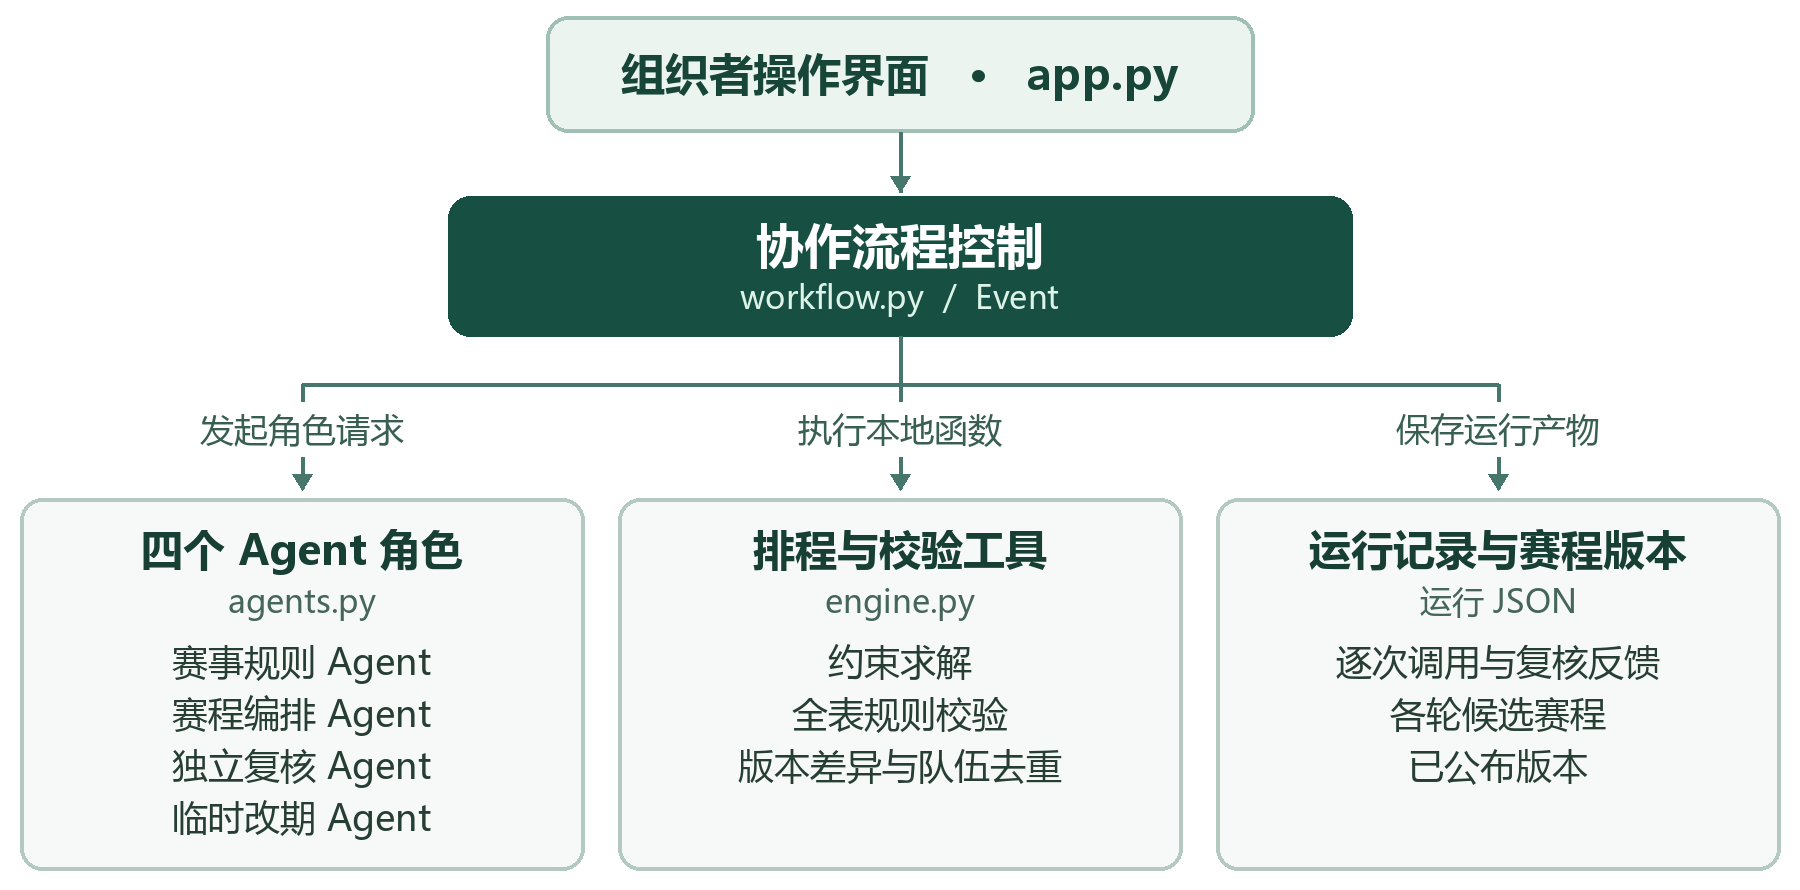
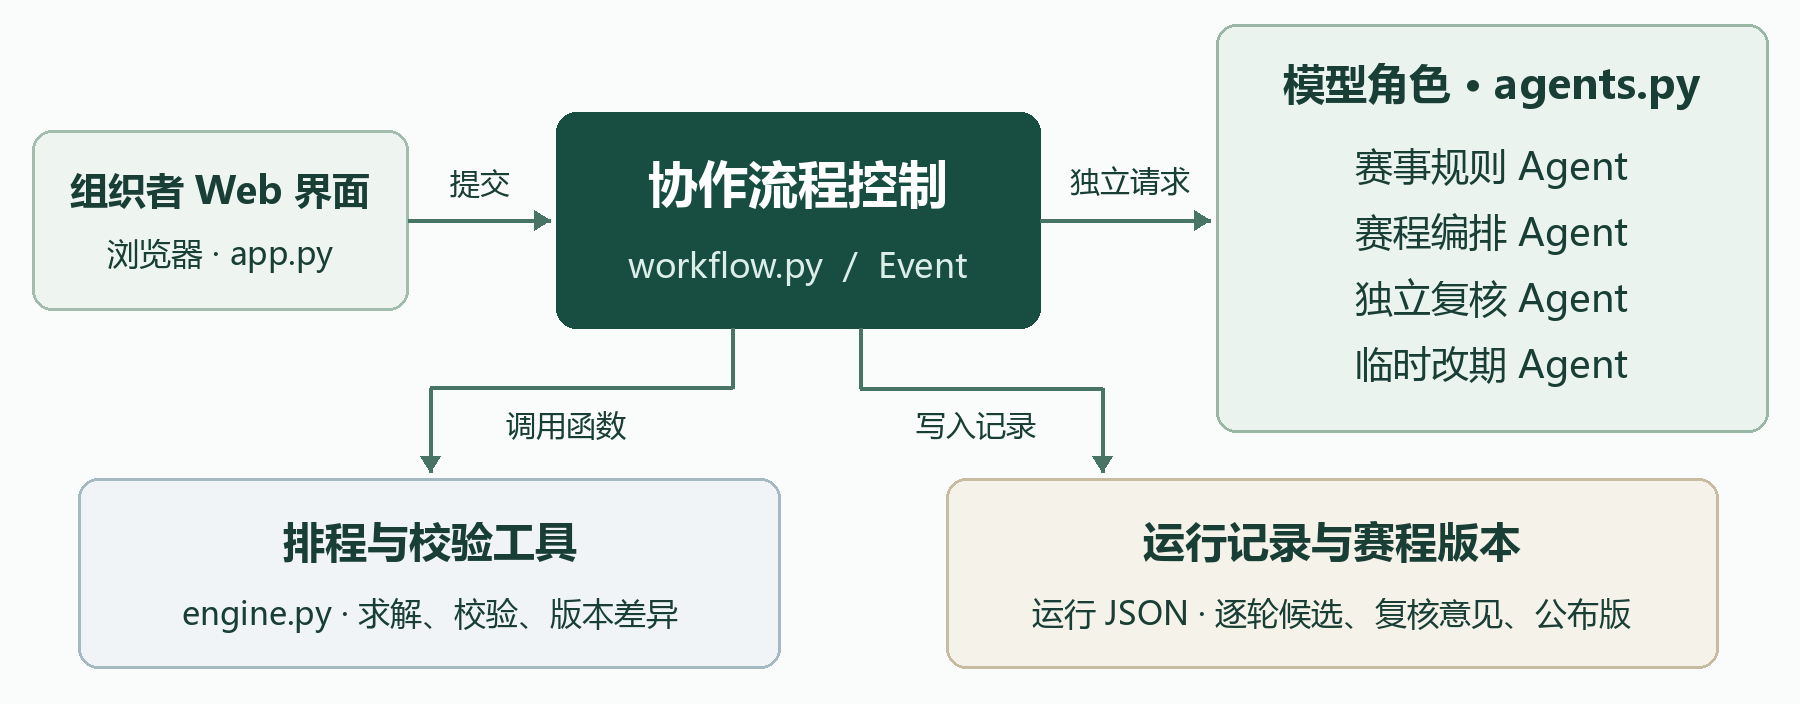
Document grading evidence, role simulations and Web architecture

diff --git a/report.md b/report.md
@@ -2,21 +2,21 @@
 
 结课方向三 · 多 Agent 协作系统（系统设计）｜榆园杯、队伍与通知均为虚构样例。本项目使用 Codex 辅助开发和整理材料。
 
-## 一、项目概述
+## 第一章 项目概述
 
 ### 1.1 方向选择理由
 
-同一份赛事通知里，“下午四点前无法到场”和“希望尽量晚一点”对排程有不同含义。理解这两句话需要读原文，判断两支队伍能否在同一时段开球还要计算场地、休息时间和共享人员。若负责解释通知的角色漏掉一句话，后面的计算即使正确，也可能排出无法执行的赛程。因此选择方向三，把规则解释、首版编排、独立复核和临时改期分给四个角色。
+榆园杯的组织者要把队长的话变成一张大家都能执行的表。“下午四点前无法到场”决定哪些时段可用，“希望尽量晚一点”只影响可行方案之间的选择。即使分清了这两句话，还要算出何时有空场、球队是否休息足够。公布前也得有人重读通知，检查是否漏掉了共用守门员这样的跨队限制。这三项工作需要不同的依据，因此选择方向三“多 Agent 协作系统”。
 
 ### 1.2 项目目标
 
-使用者是小型校园赛事的组织者。赛前，他提供对阵清单、场地条件和队长反馈，得到一张可以公布的单日赛程。公布后，遇到场地维修或球队请假，他需要尽量保留仍然可行的安排，拿到新版赛程、逐场变更原因和需要通知的队伍名单，才能有针对性地联系队长。
+小型校园赛事的组织者在浏览器中输入对阵清单、赛事通知和队长反馈，赛前得到经过核查、可以公布的单日赛程。公布后若场地停用或球队临时请假，他要知道哪几场必须调整、原来的安排能保留多少，以及新版中每场为何移动、需要联系哪些队伍。
 
 ### 1.3 核心功能
 
-组织者先录入通知，逐条核对规则及原文，澄清疑问后生成首版候选。复核通过后，他在页面上公布赛程。收到临时通知时，他可以并排查看新旧两版，点开移动的比赛检查时间、场地及依据。如果所有空档都不合适，页面保留原版，并把是否协调资源的决定交还给他。
+组织者先在 Web 端查看提取的规则和原文，确认后生成首版候选，复核通过即可公布。收到临时通知时，他在同一页面提交变更，对照新旧赛程查看移动场次、原因和去重后的队伍名单。实际联系由组织者负责。如果排不开，他仍能查看原版，并根据冲突说明决定是否协调场地。
 
-## 二、系统设计
+## 第二章 系统设计
 
 ### 2.1 系统架构图
 
@@ -24,22 +24,22 @@
 
 *图 1　系统组成与调用方向。箭头从发起操作的一方指向接收方。*
 
-首次编排时，界面把已确认的规则交给流程控制，控制器向角色发起请求，并在本机执行求解和校验。复核发现分歧后，控制器保存当轮候选，把问题及原文交回相应角色重新提交。通过复核的候选进入“可公布”状态，组织者点击公布才会追加正式版本。
+图 1 中，Web 端把操作交给流程控制器。首版使用已确认规则，改期还传入已公布版本与新通知；两条路径都由控制器请求角色并调用本地函数。规则释义有误退回规则角色，首版或改期候选有误分别退回编排或改期角色。复核通过后，组织者点击公布，控制器才把候选追加为正式版本。
 
 ### 2.2 模块说明
 
-| 模块 | 职责 | 主要输入与输出 | 实现文件 |
+| 模块或角色 | 职责 | 接收什么 | 交付什么 |
 |---|---|---|---|
-| 组织者界面 | 录入、确认、公布和回放 | 对阵、通知、操作 → 赛程对照与名单 | `app.py` |
-| 协作流程控制 | 分派角色、调用工具、决定状态 | 赛事状态与上一轮反馈 → 候选或退回意见 | `workflow.py` |
-| 赛事规则 Agent | 提取有依据的规则 | 通知与队长反馈 → 规则表、引句、待确认项 | `agents.py` |
-| 赛程编排 Agent | 组织首版编排 | 已确认规则与对阵 → 求解请求、规则编号 | `agents.py` |
-| 独立复核 Agent | 盲读原文，再核对候选 | 原文 → 独立清单；清单、候选与校验结果 → 复核意见 | `agents.py` |
-| 临时改期 Agent | 解释新增限制及影响 | 旧表与新通知 → 改期请求、直接受影响场次 | `agents.py` |
-| 排程与校验工具 | 执行搜索、检查约束、比较版本 | 规则、固定对阵与可选旧表 → 求解状态、违规项或差异 | `engine.py` |
-| 运行记录与版本 | 保存调用和每轮产物 | 角色回答、工具结果、发布操作 → 可回放的赛事记录 | `agents.py`、`workflow.py` |
+| Web 界面 | 录入、确认、公布与回放 | 对阵清单、通知、组织者操作 | 赛程对照、变更原因与名单 |
+| 协作流程控制 | 分派角色并决定能否公布 | 赛事状态、角色回答、校验结果 | 工具调用、定向反馈、候选状态 |
+| 赛事规则 Agent | 区分硬约束与软偏好 | 原始通知、队长反馈 | 带编号和原文引句的规则、待确认项 |
+| 赛程编排 Agent | 组织首版求解请求 | 确认规则、对阵、上一轮反馈 | 求解请求、规则编号及理由 |
+| 独立复核 Agent | 先盲读，再审查候选 | 原文；第二次请求另附候选与校验结果 | 独立规则清单、问题依据及退回对象 |
+| 临时改期 Agent | 解释新增限制并识别直接影响 | 已公布赛程、规则、新通知 | 改期请求、新限制与直接受影响场次 |
+| 排程与校验工具 | 执行搜索、验算约束、计算差异 | 对阵、规则及可选旧表 | 候选赛程、求解状态、违规项与变更队伍 |
+| 运行记录与版本 | 保存每次交接和发布结果 | 角色输入输出、工具结果、发布操作 | 可按运行编号回放的记录与各版赛程 |
 
-每次运行都有独立编号。同一场比赛的编号跨版本保留，因此按场次查阅候选时，可以继续找到当时使用的规则、产生分歧的那一轮以及最终公布的位置。即使候选未获通过，它仍可作为核对退回理由的依据。[方向三五项要求的证据对照](requirements_checklist.md)
+运行编号串起同一赛事的全部请求，比赛编号则在不同版本间保持稳定。查某场为何移动时，可以先按比赛编号找到新旧位置，再查该轮控制器收到哪条反馈、怎样处理。即使候选没有公布，当轮的规则和求解结果也会保存。
 
 ### 2.3 关键设计决策
 
@@ -49,7 +49,7 @@
 
 **保留已公布版本作为改期参照。** 已向队长公布的时间具有联络成本，两张都可行的表可能要联系不同数量的队伍。系统先比较移动了几场，再把这些比赛的参赛队去重。同一队涉及多场变更只算一次，组织者据此决定要联系谁。
 
-## 三、实现细节
+## 第三章 实现细节
 
 ### 3.1 核心代码片段
 
@@ -66,7 +66,7 @@ if any(i["target"]=="rules" for i in problems):
     self.extract(problems,n+1)
 ```
 
-输入是一份候选和针对它的问题清单。每条意见标明退回对象，并可携带原文、规则编号和场次。程序先记录完整反馈，再判断当前规则、候选与问题组合是否已经出现过。若组合重复，继续询问只会重走同一轮，系统就停下来。遇到规则解释问题，最后一行直接把问题传给规则角色，让它对照上轮清单重新提取。若是首版编排或改期问题，下一轮请求会带上反馈以及这里保存的候选副本，角色可以据此修正具体场次。修订过程保留旧候选，便于事后判断这次修改到底回应了哪条意见。
+这里的输入是当轮候选及复核产生的问题清单。每条意见标明退回对象，并可携带原文、规则编号和场次。程序先记录完整反馈，再判断当前规则、候选与问题组合是否已经出现过。若组合重复，继续询问只会重走同一轮，系统就停下来。遇到规则解释问题，最后一行直接把问题传给规则角色，让它对照上轮清单重新提取。若是首版编排或改期问题，下一轮请求会带上反馈以及这里保存的候选副本，角色可以据此修正具体场次。修订过程保留旧候选，便于事后判断这次修改到底回应了哪条意见。
 
 第二段摘自 `engine.py` 的 `solve`，是内部搜索函数 `visit` 处理完整候选时的比较逻辑。
 
@@ -78,7 +78,7 @@ if reconsider:
 if score is None or cost<score: best,score=part.copy(),cost
 ```
 
-输入的候选已排入全部比赛，搜索过程中每增加一场就检查一次硬约束。有旧表时，程序用稳定的比赛编号对齐两个版本。开球时间和场地只要有一项变化就记一场，两项都变也只记一场。元组从左到右比较，因此先减少移动场次，再减少涉及队伍，随后才比较偏好罚值和开球时间总和。收到针对场次的修订意见时，最后一个比较项使并列方案优先尝试不同位置。没有旧表时前两项均为零，搜索自然回到首版目标。只有更优的候选才替换当前解，完全并列时保留先枚举到的方案。
+输入的候选已排入全部比赛，搜索过程中每增加一场就检查一次硬约束。有旧表时，程序用稳定的比赛编号对齐两个版本。同一场的开球时间或场地有变化就计为移动一场，两项都变也只计一次。计算涉及队伍时，程序只收集这些移动场次的参赛队，并对队名去重；同一队的两场都移动也只需联系一次。元组从左到右比较，因此先减少移动场次，再减少涉及队伍，随后才比较偏好罚值和开球时间总和。收到针对场次的修订意见时，最后一个比较项使并列方案优先尝试不同位置。没有旧表时前两项均为零，搜索自然回到首版目标。只有更优的候选才替换当前解，完全并列时保留先枚举到的方案。
 
 ### 3.2 关键配置
 
@@ -95,15 +95,15 @@ if score is None or cost<score: best,score=part.copy(),cost
 
 ### 3.3 遇到的问题与解决
 
-**复核回答缺少工具字段。** 早期网页运行收到的问题数组为空，却无法进入公布步骤。查看可见回答发现，模型遗漏了协议要求的工具字段，程序无法把这份回答识别为有效复核。现在控制器会把结构错误提示和上次回答一并返回，允许再答一次；再次失败就记录调用失败。原运行停在失败状态。后续独立的网页验收完成了两次发布，其记录中没有触发格式重试，因此它验证的是正常发布路径。[失败记录](evidence/prototype/ui-format-error.json) · [网页验收](evidence/ui-59504551fc1f41df93a3846f426dae80.json)
+**复核回答缺少工具字段。** 早期网页运行收到的问题数组为空，却无法进入公布步骤。查看可见回答发现，模型遗漏了协议要求的工具字段，程序无法把这份回答识别为有效复核。现在控制器会把格式反馈和上次可见回答一起交回原角色，允许再答一次；再次失败就记录调用失败。原运行停在失败状态。后续独立的网页验收完成了两次发布，其记录中没有触发格式重试，因此它验证的是正常发布路径。[失败记录](evidence/prototype/ui-format-error.json) · [网页验收](evidence/ui-59504551fc1f41df93a3846f426dae80.json)
 
 **把球队参赛误当作场次受影响。** 星桥只在十三点到十四点无法参赛，改期角色首轮却同时列出两场。原因是另一场虽有星桥参赛，开球时间并未落在请假窗口。程序把新限制套在旧表上，核出只有 M02 直接受影响，并把这个编号传回改期角色。第二轮名单从 M02、M05 收窄到 M02，复核通过后公布新版。这次记录可以沿反馈找到实际修正的对象。[改期记录](evidence/active.json)
 
-## 四、测试验证
+## 第四章 测试验证
 
 ### 4.1 测试用例
 
-验证分成两层。离线测试固定输入，检查边界、版本和失败处置；真实模型运行另行保留每次交接，用来判断系统能否把原文变成可执行的安排。人工注入时有意删除规则，单独统计，以免将人为制造的遗漏误记为模型自然漏读。
+离线测试检查约束边界和发布状态；真实运行检查角色交接。人工注入的遗漏单列，便于与自然漏读区分。
 
 | 场景及来源 | 输入 | 预期 |
 |---|---|---|
@@ -116,13 +116,13 @@ if score is None or cost<score: best,score=part.copy(),cost
 
 ### 4.2 测试结果
 
-**基础功能验证。** 冻结记录中 26 项离线测试全部通过。主线运行编号为 `99e60c38ee9249449e373cbde9fede0f`，同一赛事的七次请求覆盖四个角色。二号场停用后，五场全部保留。只有石榴队对飞萤队的 M04 从 13:00 二号场地移至 14:00 一号场地，需要通知这两队。[逐项测试](evidence/tests.json) · [主线交接](evidence/main.json)
+**基础功能验证。** 26 项离线测试全部通过，失败与错误均为零。主线运行编号为 `99e60c38ee9249449e373cbde9fede0f`，同一赛事的七次请求覆盖四个角色。二号场停用后，五场全部保留。只有石榴队对飞萤队的 M04 从 13:00 二号场地移至 14:00 一号场地，需要通知这两队。[逐项测试](evidence/tests.json) · [主线交接](evidence/main.json)
 
 ![已公布的两版赛程并排显示，移动场次用黄色标出](screenshots/main.png)
 
 *图 2　沿两张表中的黄色 M04 对照旧位置和新位置，表下方列出对应队伍。*
 
-双场全程维修时，每场的可用位置都为空，搜索能证明无解。系统另做一次撤回新增限制的试算，证实可恢复可行，然后将决定交回组织者。[无解记录](evidence/impossible.json)
+图 3 中双场全程维修，五场均无可选位置。撤回维修限制的试算恢复可行，由组织者决定是否协调。[无解记录](evidence/impossible.json)
 
 ![双场维修后仍可查看首版，并显示空档检查与试算](screenshots/impossible.png)
 
@@ -130,18 +130,34 @@ if score is None or cost<score: best,score=part.copy(),cost
 
 **深度突破候选——独立原文复核。** 这一实验深化方向三的容错共识与核查。三个自然案例共六条参考规则，首轮已全部命中，增加复核未观察到准确率提升，每例首版调用由两次增至四次。另看单条限制的人工注入试验：从规则表删去共享守门员限制后，M03 与 M04 同在十四点开球。复核者从原文找回限制，修订候选把 M04 移至十五点。复核仍提出待确认意见，候选最终未公布。[注入与修订记录](evidence/pair_fault.json)
 
-**方向突破候选——已公布赛程的低扰动改期。** 新增技术是把原赛程纳入优化目标。在同一旧表、变更和求解预算下，两种模式都先通过硬约束校验。下表每格依次给出移动场次和需要通知的队伍数。星桥请假是追加案例，能说明何时出现收益，尚不足以估计一般赛事的平均收益。[逐例耗时与完整实验表](experiments.md)
+**方向突破候选——已公布赛程的低扰动改期。** 新增技术是把已公布赛程纳入优化目标。两种方法使用相同规则及预算，所得赛程均通过校验。表中每格依次为移动场次、需要通知的队伍数。星桥请假是追加案例，收益不能直接推广到其他赛事。[逐例耗时与完整实验表](experiments.md)
 
 | 变更 | 从头排程 | 低扰动改期 |
 |---|---:|---:|
-| 星桥队请假（追加） | 4 场 / 7 队 | 1 场 / 2 队 |
 | 二号场停用 | 1 场 / 2 队 | 1 场 / 2 队 |
+| 星桥队请假（追加） | 4 场 / 7 队 | 1 场 / 2 队 |
+
+**方向三五项技术要求与实际证据**
+
+| 课件原项 | 在本项目中观察到的证据 |
+|---|---|
+| 多角色设计 | 同一赛事先由规则角色提取、编排角色请求求解，公布后由改期角色解释停用通知；独立复核角色在两个阶段分别核查。 |
+| 多轮协作迭代 | 星桥请假首轮列出 M02、M05。程序反馈只有 M02 与请假时段相交，改期角色在第二轮修正，复核通过并公布。 |
+| 容错共识规则 | 删除共享守门员规则后，原候选能通过程序校验。复核找回限制后仍有待确认意见，系统保留候选并停止公布。 |
+| 可验证协作记录 | 主线运行的七次请求依次为规则、编排、复核盲读、复核判定、改期、复核盲读、复核判定。每次均存有轮次、可见输入输出和耗时，可关联 V1、V2。 |
+| 高质量成果产出 | 图 2 中可逐格核对 V1、V2。差异清单给出 M04 的旧位置、新位置和移动原因，队伍名单与该场双方一致。 |
 
 ### 4.3 用户反馈
 
-本次尚未收集真实用户反馈。现有证据可以核对赛程是否可行、发布是否受控；组织者能否在没有提示的情况下找全需要联系的队伍，仍有待实际试用检验。
+本节依据 Web 原型的运行回放整理作者反馈；两位同学的意见均为角色模拟，尚未收集真实同学的试用反馈。
 
-## 五、总结反思
+**作者反馈：** 对照两张赛程表，我能数清五场比赛都保留了，再从黄色格子找到 M04 的新位置。并排看适合逐场核对；如果把唯一的变更先列在表格上方，打开页面就能看见重点。
+
+**同学一（假设自己要负责这次校园比赛，场地停用后要通知各队队长）：** 我先看要联系谁。名单里是石榴队和飞萤队，旁边的变更清单也写了新旧位置。要是能直接复制一句“石榴队对飞萤队的比赛由 13:00 二号场地改至 14:00 一号场地”，我就能发到队长群里。
+
+**同学二（假设自己是石榴队队长，要把新的比赛安排转达给队员）：** 我会先找“石榴队”和对手，很少记 M04 这样的编号。找到这场后，我要转告队员的就是“14:00，一号场地”。如果变更行先写双方队名，再把新时间和场地加粗，我扫一眼就能找到。
+
+## 第五章 总结反思
 
 ### 5.1 项目亮点
 
@@ -149,7 +165,7 @@ if score is None or cost<score: best,score=part.copy(),cost
 
 ### 5.2 不足与改进方向
 
-目前每场比赛占同样长的整点时段。若校园赛事改为长短场混排，应先给每场记录实际时长，再据此检查场地交接和休息边界。自然通知的样本也较少，后续可让不同编写者提供含补充说明或模糊措辞的通知，事先独立标注参考答案，检验在哪些条件下增加复核值得付出调用成本。
+当前 Web 原型固定整点开球、每场一小时。若要支持长短场混排，应先为每场记录时长，再用实际结束时间验算场地衔接和同队休息。变更结果也还有一步人工转录：组织者需要从表中整理发给队长的话。后续可以在差异行突出双方队名、新时间和场地，并在名单旁提供可复制的通知文本；消息仍由组织者自行发送。
 
 ### 5.3 个人收获
 

diff --git a/requirements_checklist.md b/requirements_checklist.md
@@ -10,6 +10,6 @@
 |高质量成果产出 4 分，复杂任务最终成果可核对|版本、差异、通知名单|main.json 与截图|
 |第29页五章、规定字数、学号_姓名_结课方向.md、含截图，2026年12月31日24:00前收到邮件|结课报告|[报告五章十五节](report.md)；2.1 架构图、4.2 运行截图、5.3 个人收获；本人发送|
 |第30页功能完整、设计合理、测试充分、文档规范、亮点表达，各3分|程序、测试、报告、演示|README 复现|
-|第31页迟交扣4分，抄袭或作弊取消成绩；深度突破候选+1，方向突破候选+3|原文复核对照、低扰动改期对照|报告 4.2 与[完整实验表](experiments.md)，以教师评定为准|
+|第31页迟交扣4分，抄袭或作弊取消成绩；深度突破候选+1，方向突破候选+3|原文复核对照、低扰动改期对照|报告 4.2 的两项候选及五项技术要求证据表，与[完整实验表](experiments.md)，以教师评定为准|
 
 自行设计：八队双场、固定对阵与整点网格、人工发布、四角色协议、穷举优化、双版本对照和离线回放。第26、27页属于其他方向。第33页另列开源30+ star条件。
